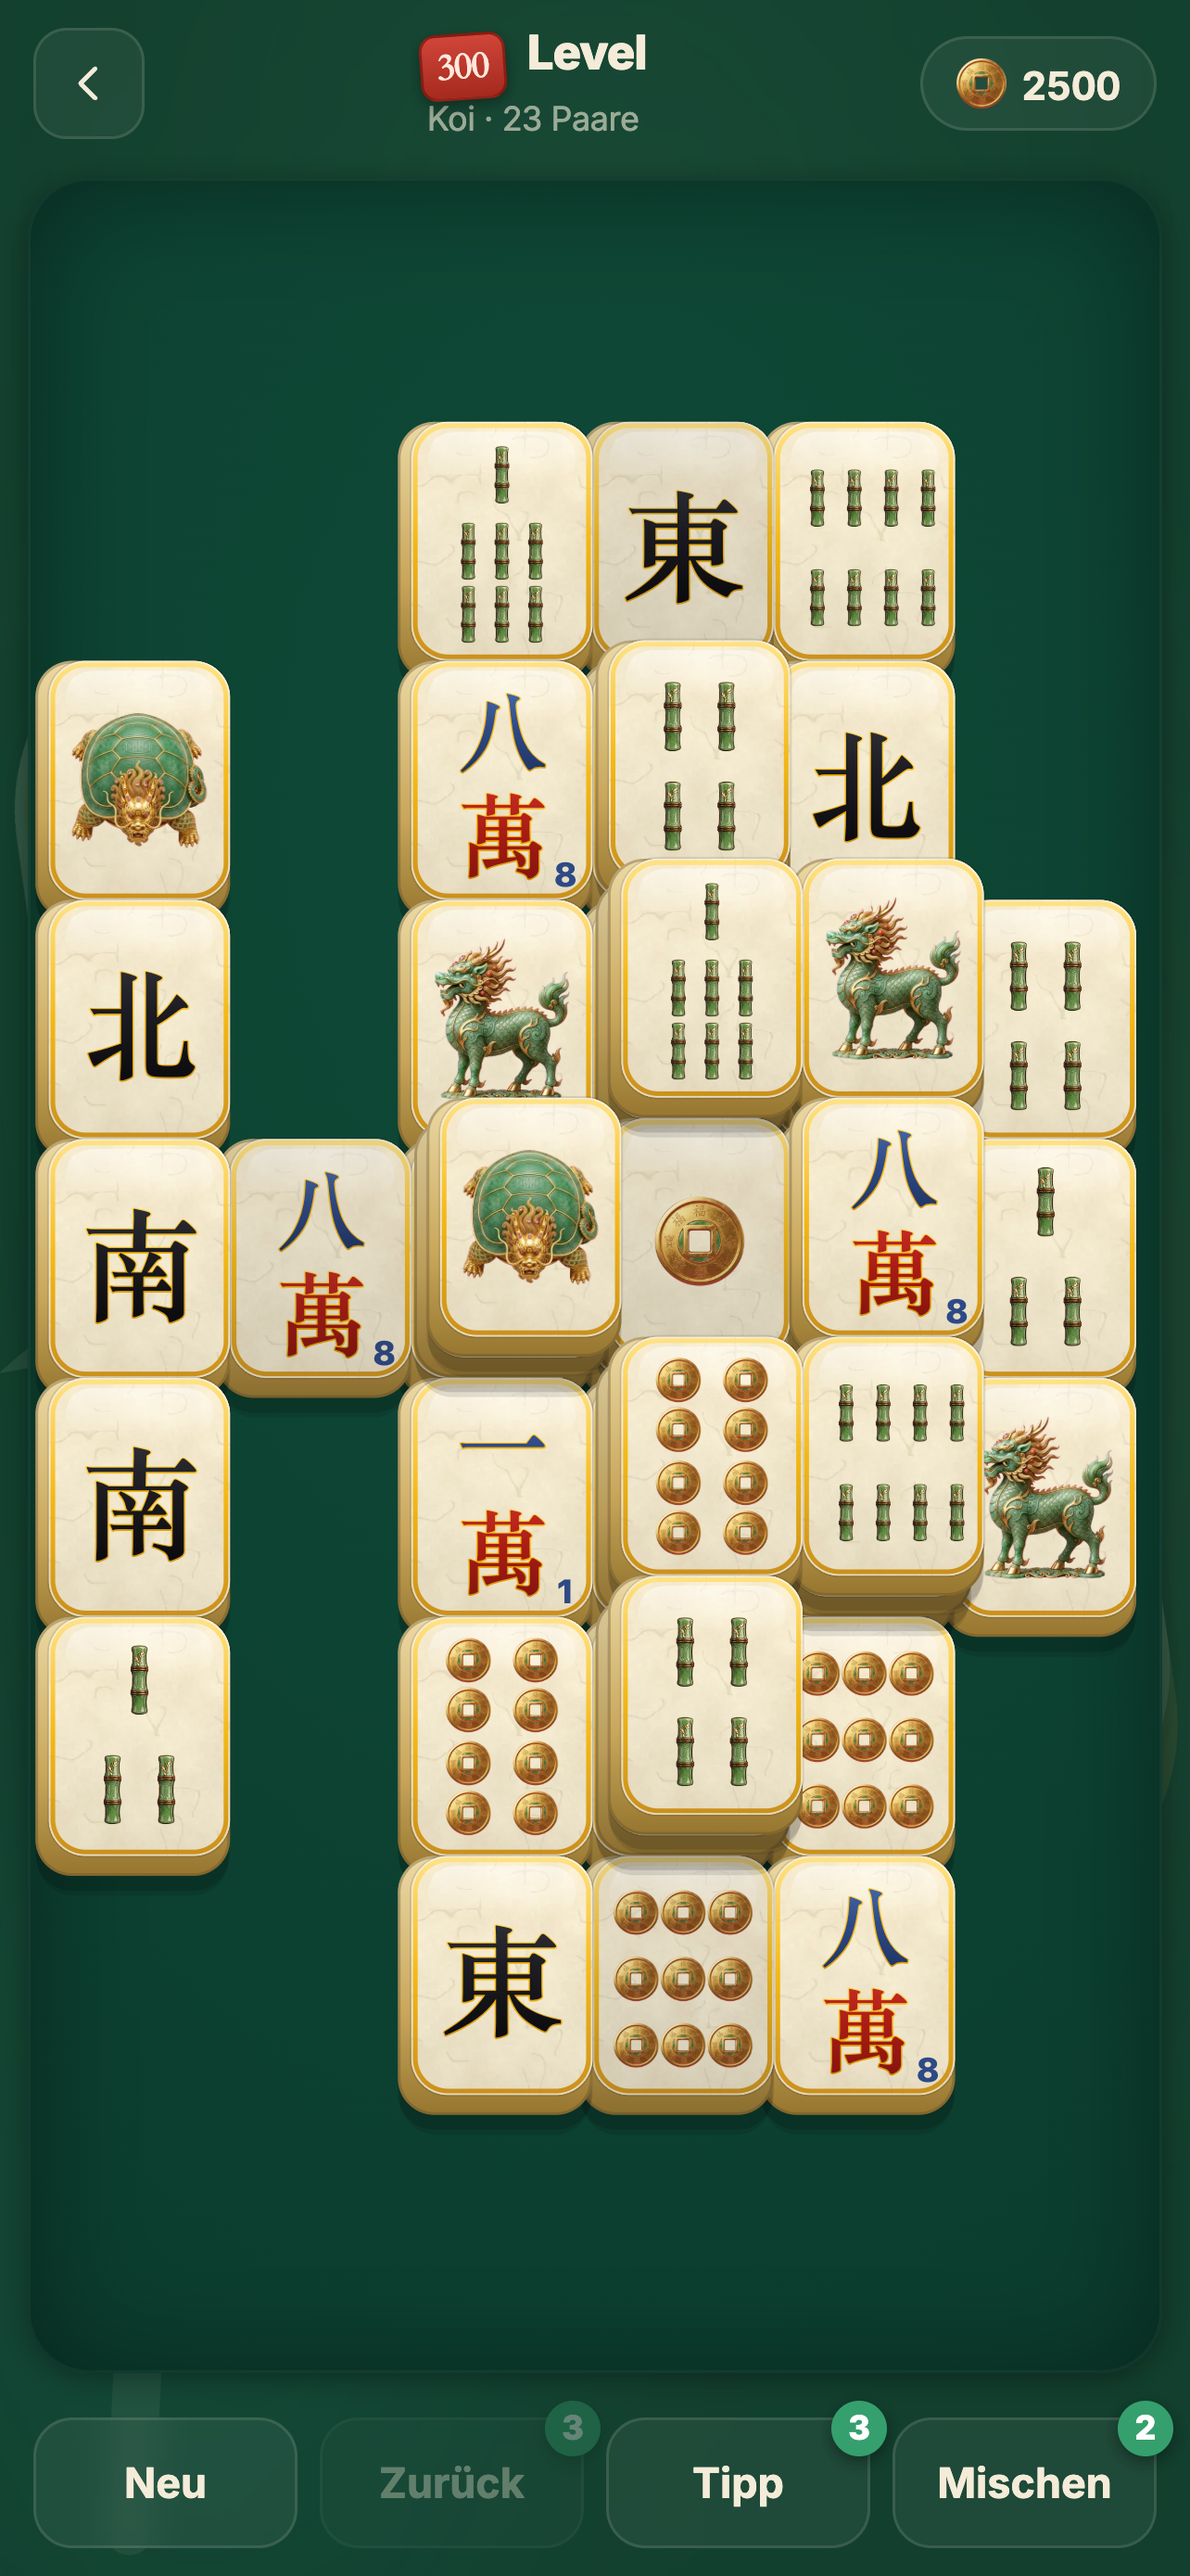
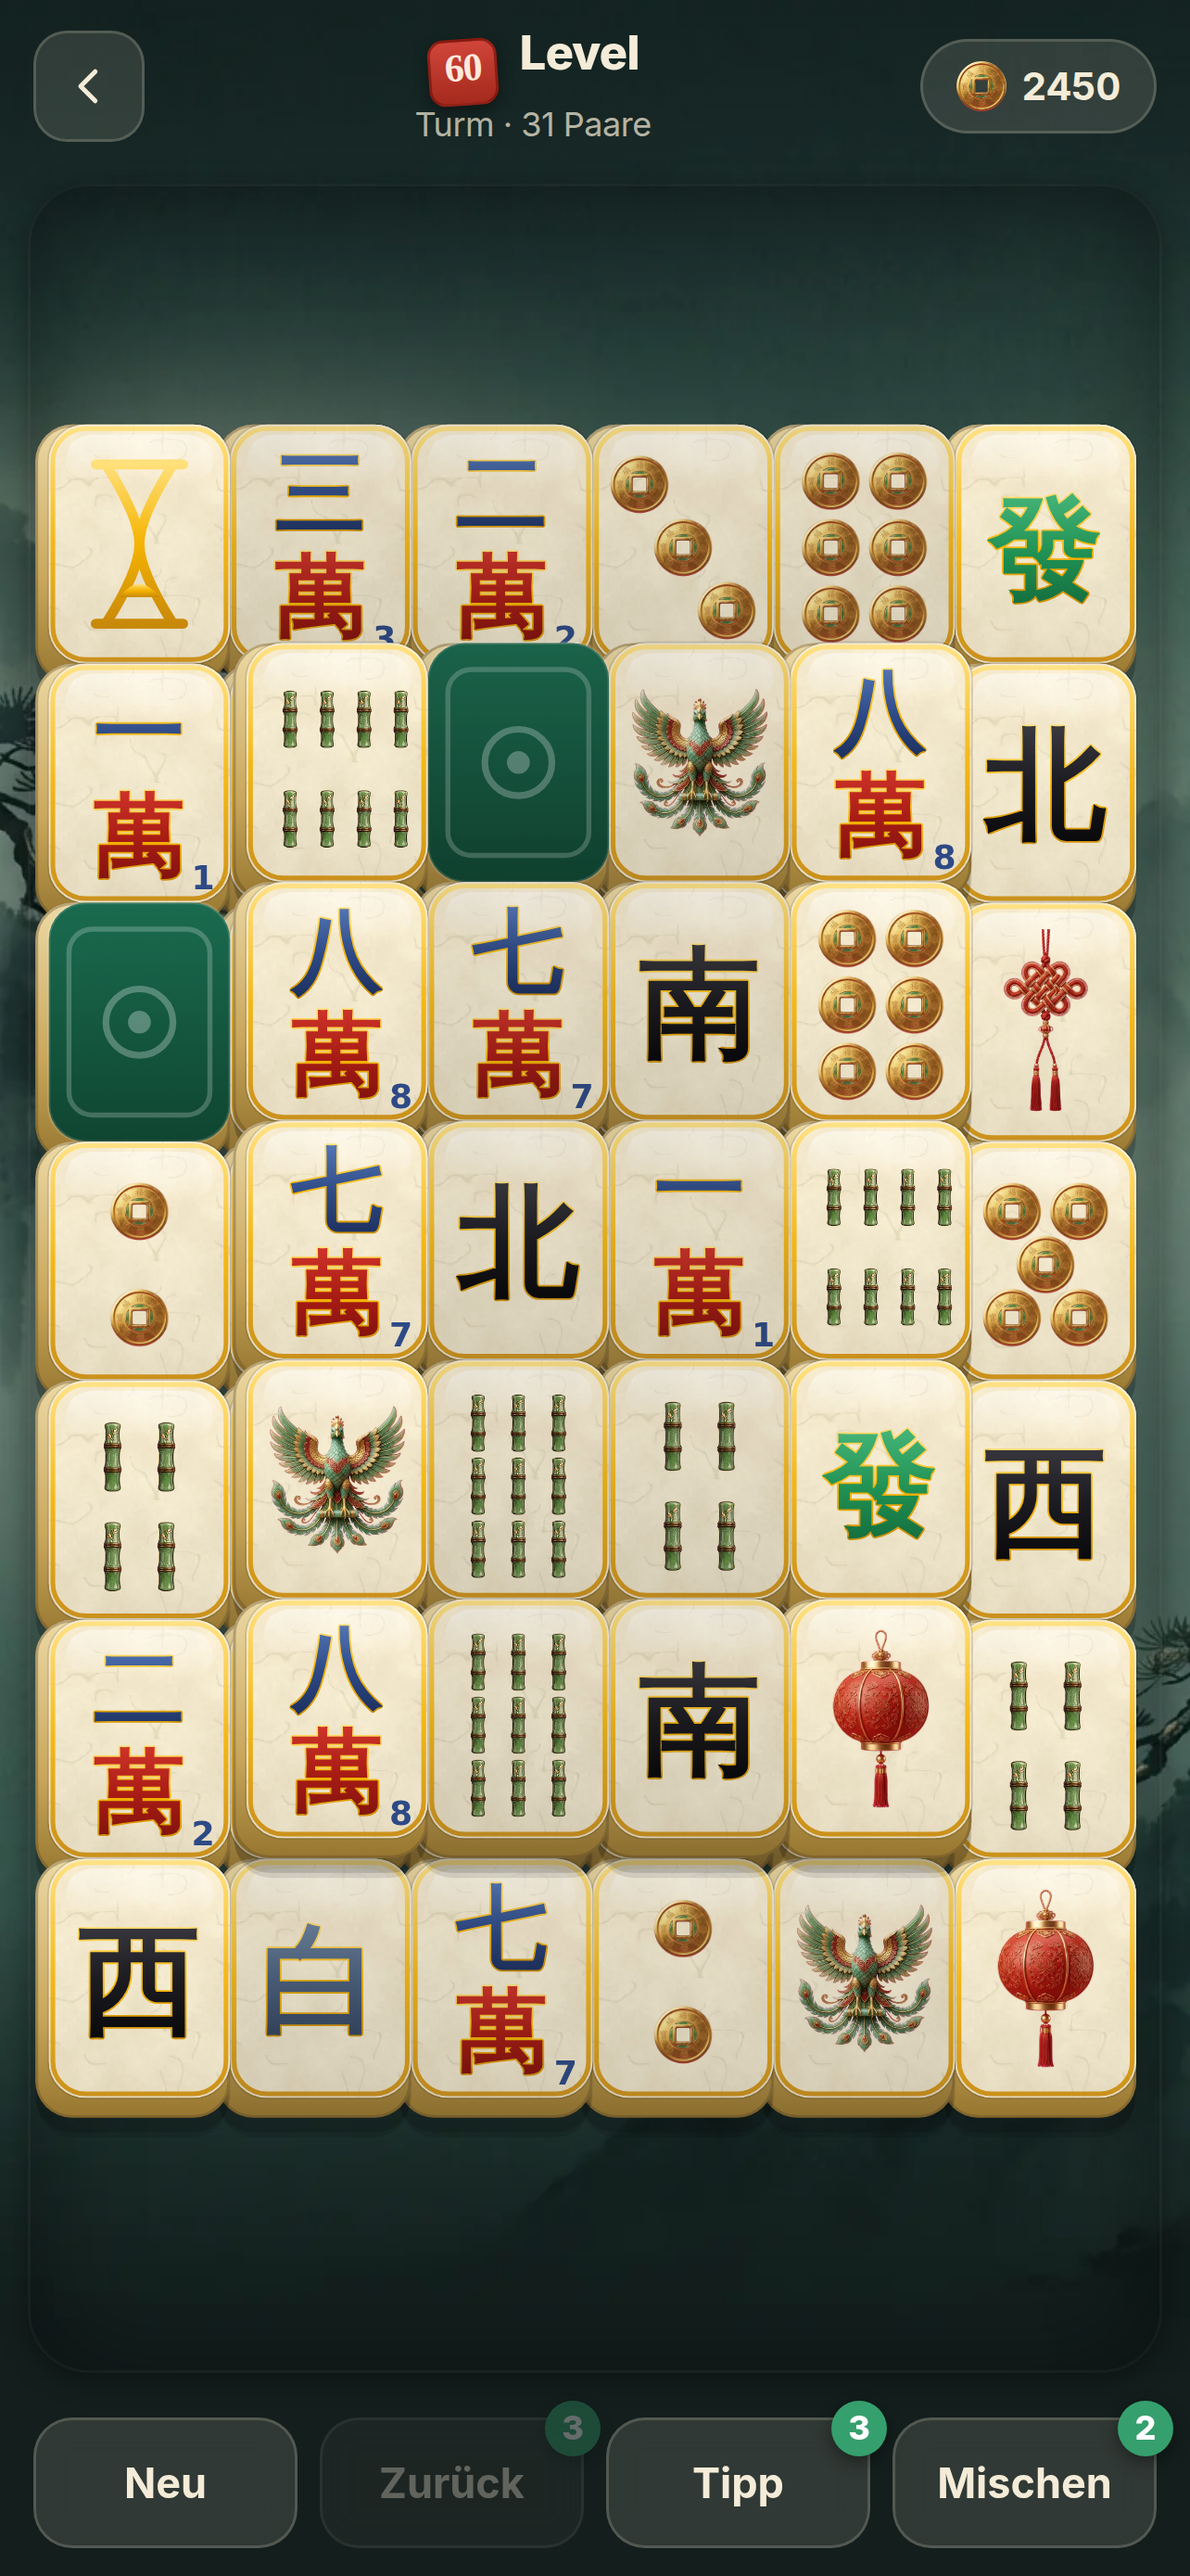
Release 1.1.0 vorbereiten: Versionen, Store-Texte, neue Screenshots
Android vc23 / iOS Build 22, MARKETING_VERSION 1.1.0. Erstes
Feature-Release seit 1.0: Tempel auf allen Bildschirmen, verdeckte Steine
ab Level 30, Spezialsteine ab Level 50, Paare-Modus auf echten Figuren.

Store-Screenshots kommen jetzt aus `scripts/store-screenshots.mjs` statt aus
Handarbeit. Anlass war der Tempel-Hintergrund: Alle 25 alten Bilder zeigten
den Vorzustand. Das Skript erzeugt fuenf Motive in vier iOS-Formaten
(iPhone 6,5" und iPad 12,9", je DE und EN) plus den Play-Satz. Der
gesetzte Spielstand steht auf Level 60 -- damit zeigt das Brett-Motiv
verdeckte Steine UND Spezialsteine, also genau das Neue.

Play-Handy-Bilder muessen <= 2:1 sein; die iPhone-1284x2778 sind zu hoch.
Deshalb ein eigenes Format 1080x2148 statt einer Skalierung.

Beim Durchsehen der englischen Bilder aufgefallen: Vier Zeilen im Riichi
standen fest auf Deutsch im Code ("Zum Abwerfen antippen", "Riichi
angesagt", die beiden Gewinnzeilen) und erschienen so auch im englischen
Store-Eintrag. Jetzt ueber i18n. Die Yaku-Namen in der Ergebniskarte sind
weiterhin deutsch -- eine eigene Aufgabe, nicht Teil dieses Releases.

Versionshinweise in store/whatsnew-1.1.0.json, alle sieben Sprachen, mit
den Schluesseln, die Apple an der Version fuehrt (it und ja OHNE
Laenderteil -- die Falle von 1.0.4).

Claude-Session: https://claude.ai/code/session_01X59epCHhXTgvsAjYXB6F4W

diff --git a/src/mahjong4/ui/RiichiTable.tsx b/src/mahjong4/ui/RiichiTable.tsx
@@ -114,7 +114,7 @@ export function RiichiTable({ onExit, addCoins, onHandResult }: { onExit: () => 
         <div className="m4-actions">
           {discardable && (
             <div className={'hint-line' + (r.extra.riichi[0] ? ' tenpai' : '')}>
-              {r.extra.riichi[0] ? 'Riichi angesagt – Stein antippen' : 'Zum Abwerfen antippen'}
+              {r.extra.riichi[0] ? t('riichi.riichiHint') : t('riichi.discardHint')}
             </div>
           )}
         </div>
@@ -141,7 +141,7 @@ export function RiichiTable({ onExit, addCoins, onHandResult }: { onExit: () => 
             <div className="logo">{r.result.winner === 0 ? '🎉' : r.result.winner == null ? '🀫' : '🤖'}</div>
             <h2>
               {r.result.winner === 0
-                ? (r.result.tsumo ? 'Tsumo – du gewinnst!' : 'Ron – du gewinnst!')
+                ? (r.result.tsumo ? t('riichi.winTsumo') : t('riichi.winRon'))
                 : r.result.winner == null
                 ? t('m4.wallEmpty')
                 : t('m4.someoneWins', { w: windName(seatWind(g, r.result.winner)) })}
@@ -149,7 +149,7 @@ export function RiichiTable({ onExit, addCoins, onHandResult }: { onExit: () => 
             {r.result.scored && r.result.scored.points > 0 && (
               <>
                 <p className="coins-won">
-                  {r.result.scored.yakuman ? 'Yakuman' : `${r.result.scored.han} Han / ${r.result.scored.fu} Fu`} · {r.result.scored.points} Pkt.
+                  {r.result.scored.yakuman ? 'Yakuman' : `${r.result.scored.han} Han / ${r.result.scored.fu} Fu`} · {t('riichi.points', { n: r.result.scored.points })}
                 </p>
                 <div className="faan-list">
                   {r.result.scored.yaku.map((y, i) => (

diff --git a/src/i18n.ts b/src/i18n.ts
@@ -328,6 +328,13 @@ const D: Record<string, Entry> = {
   'm4.whichChow': { de: 'Welche Straße?', en: 'Which run?' },
   'm4.youWin': { de: 'Du gewinnst!', en: 'You win!' },
   'm4.wallEmpty': { de: 'Abbruch (Wand leer)', en: 'Draw (wall empty)' },
+  // Riichi: Diese vier standen bis 1.1.0 fest auf Deutsch im Code und tauchten
+  // deshalb auch in den englischen Store-Screenshots deutsch auf.
+  'riichi.discardHint': { de: 'Zum Abwerfen antippen', en: 'Tap a tile to discard' },
+  'riichi.riichiHint': { de: 'Riichi angesagt – Stein antippen', en: 'Riichi declared – tap a tile' },
+  'riichi.winTsumo': { de: 'Tsumo – du gewinnst!', en: 'Tsumo – you win!' },
+  'riichi.winRon': { de: 'Ron – du gewinnst!', en: 'Ron – you win!' },
+  'riichi.points': { de: '{n} Pkt.', en: '{n} pts' },
   'm4.someoneWins': { de: '{w} gewinnt', en: '{w} wins' },
   'm4.matchOver': { de: 'Runde beendet', en: 'Round finished' },
   'm4.east': { de: 'Ost', en: 'East' },

diff --git a/CLAUDE.md b/CLAUDE.md
@@ -582,6 +582,21 @@ noch keine Freigabe → in Play Console (Nutzer und Berechtigungen → SA-Mail e
   Track; es überschreibt das alte für alle Nutzer. Wer also „abbrechen" möchte, bekommt in der Praxis
   „überschreiben" — und sollte den Rollout beim nächsten heiklen Release lieber gestuft starten
   (`--fraction 0.2`), dann ist ein echtes `halt` möglich.
+- **11.8.2026 — v1.1.0 (Android vc23 / iOS Build 22): das erste Feature-Release seit
+  1.0.** Vier Dinge in einem Build, auf Josefs Wunsch bewusst gebündelt: Tempel-Motiv
+  auf allen Bildschirmen, verdeckte Steine ab Level 30, Spezialsteine ab Level 50,
+  Paare-Modus auf echten Figuren. Einzelheiten stehen oben bei den jeweiligen
+  Abschnitten — hier nur, was fürs Release zählt:
+  - **Store-Screenshots sind neu und kommen jetzt aus einem Skript**
+    (`node scripts/store-screenshots.mjs`, braucht `npx vite preview --port 5199`
+    und `CHROME=…`). Vorher entstanden sie von Hand; mit dem Tempel im Rücken
+    zeigten alle alten Bilder den Vorzustand. Das Skript erzeugt fünf Motive in
+    vier Formaten (iPhone 6,5" DE/EN, iPad 12,9" DE/EN) plus den Play-Satz.
+    ⚠ Play-Handy-Bilder müssen **≤ 2:1** sein — die iPhone-1284×2778 sind zu hoch,
+    darum ein eigenes Format 1080×2148 statt einer Skalierung.
+  - Versionshinweise in `store/whatsnew-1.1.0.json`, alle sieben Sprachen. Die
+    Schlüssel heißen an der Version `de-DE`, `en-US`, `es-ES`, `pt-BR`, `fr-FR`
+    sowie **`it` und `ja` OHNE Länderteil** (die Falle von 1.0.4).
 
 ---
 
